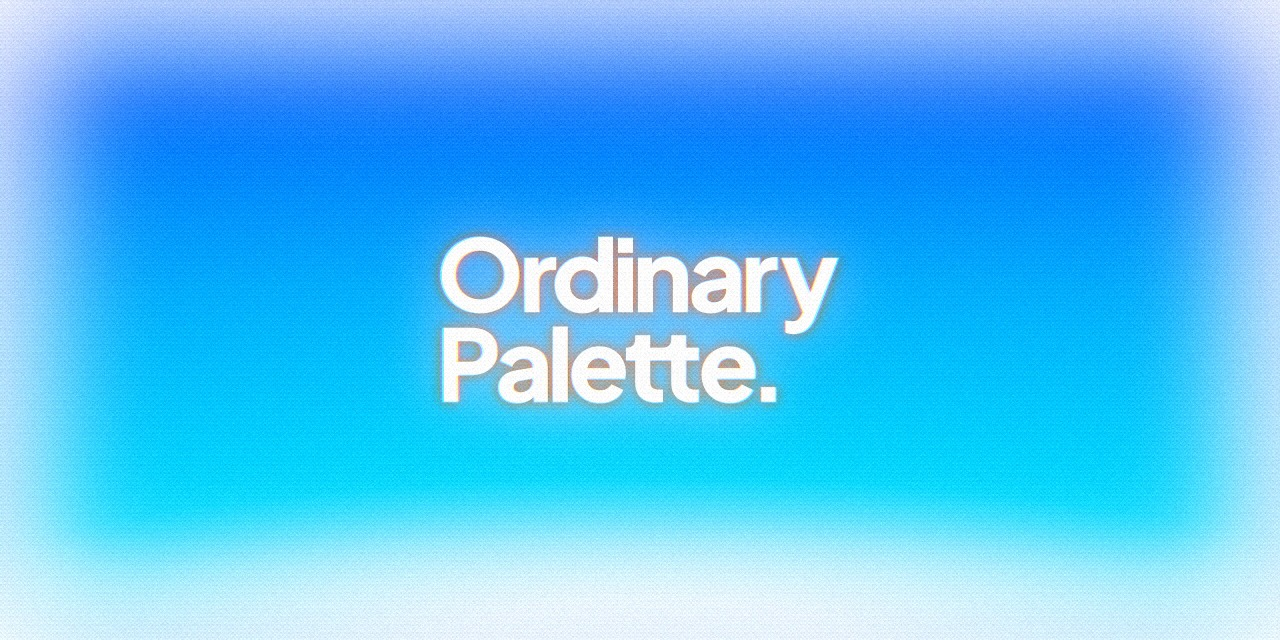
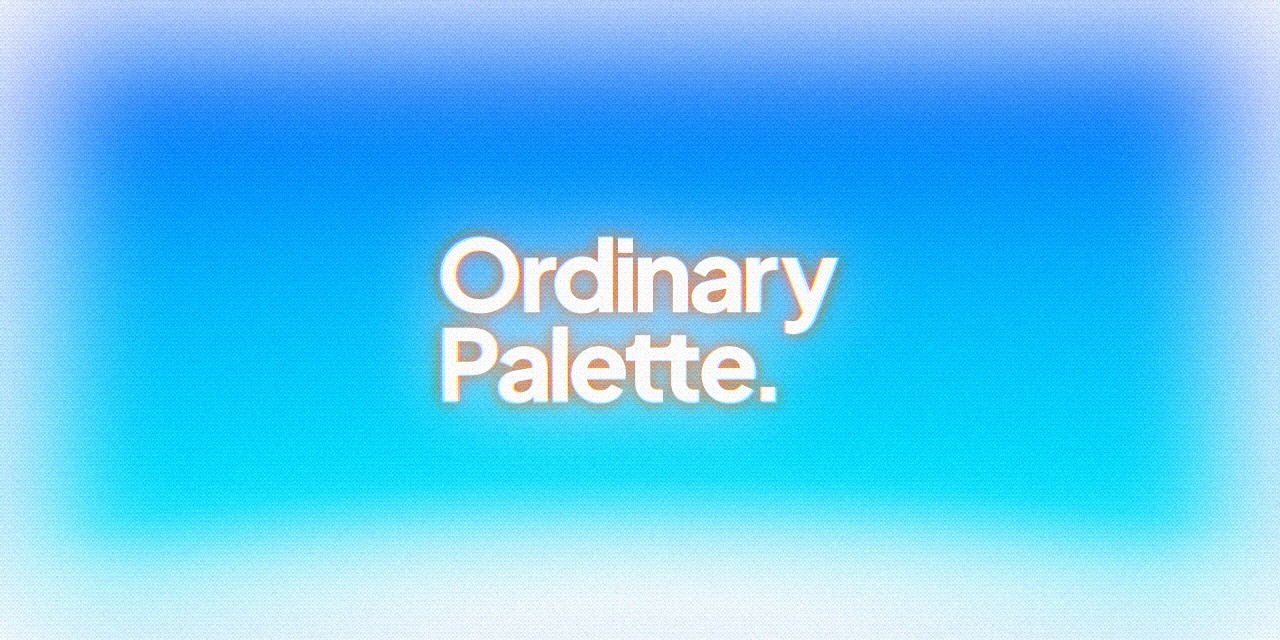
Strengthen the cover effects a step
Stronger bloom, halation, chromatic aberration, grain, and dither.

Claude-Session: https://claude.ai/code/session_011s5ybZbECmCKkVrRh91GXM

Changed region(s): [[0.3125, 0.3438, 0.6562, 0.6875], [0.0625, 0.8125, 0.0938, 0.8438]]

diff --git a/design/cover.html b/design/cover.html
@@ -24,18 +24,18 @@ const W = 1280;
 const H = 640;
 const SCALE = 2;
 const FRAME = 2560;            // width of the Figma frame the SVGs were drawn for
-const BLOOM = { blur: 36, alpha: 0.4 };
+const BLOOM = { blur: 44, alpha: 0.55 };
 // Each pass takes pixels brighter than the threshold, tints and blurs them, keeps only the part that spills
 // outside the bright shape, and blends that ring back on.
 // The tight pass comes from the logo only and is laid over the image, so its fringe stays orange on blue.
 // The wide pass comes from every bright area and is screened on as a warm glow.
 const HALATION = [
-  { from: "logo", threshold: 0.78, blur: 6, alpha: 0.85, color: [255, 110, 40], mode: "source-over" },
-  { from: "scene", threshold: 0.78, blur: 30, alpha: 0.7, color: [255, 70, 40], mode: "screen" },
+  { from: "logo", threshold: 0.78, blur: 8, alpha: 1, color: [255, 110, 40], mode: "source-over" },
+  { from: "scene", threshold: 0.78, blur: 38, alpha: 0.9, color: [255, 70, 40], mode: "screen" },
 ];
-const ABERRATION = 0.008;      // red spreads out and blue pulls in by this share of the distance from the center
-const GRAIN = 8;               // grain strength in 0–255 units
-const LEVELS = 16;             // color levels per channel for the dither
+const ABERRATION = 0.011;      // red spreads out and blue pulls in by this share of the distance from the center
+const GRAIN = 11;              // grain strength in 0–255 units
+const LEVELS = 13;             // color levels per channel for the dither
 const DITHER_PX = 2;           // one dither cell in CSS pixels
 
 const PW = W * SCALE;
